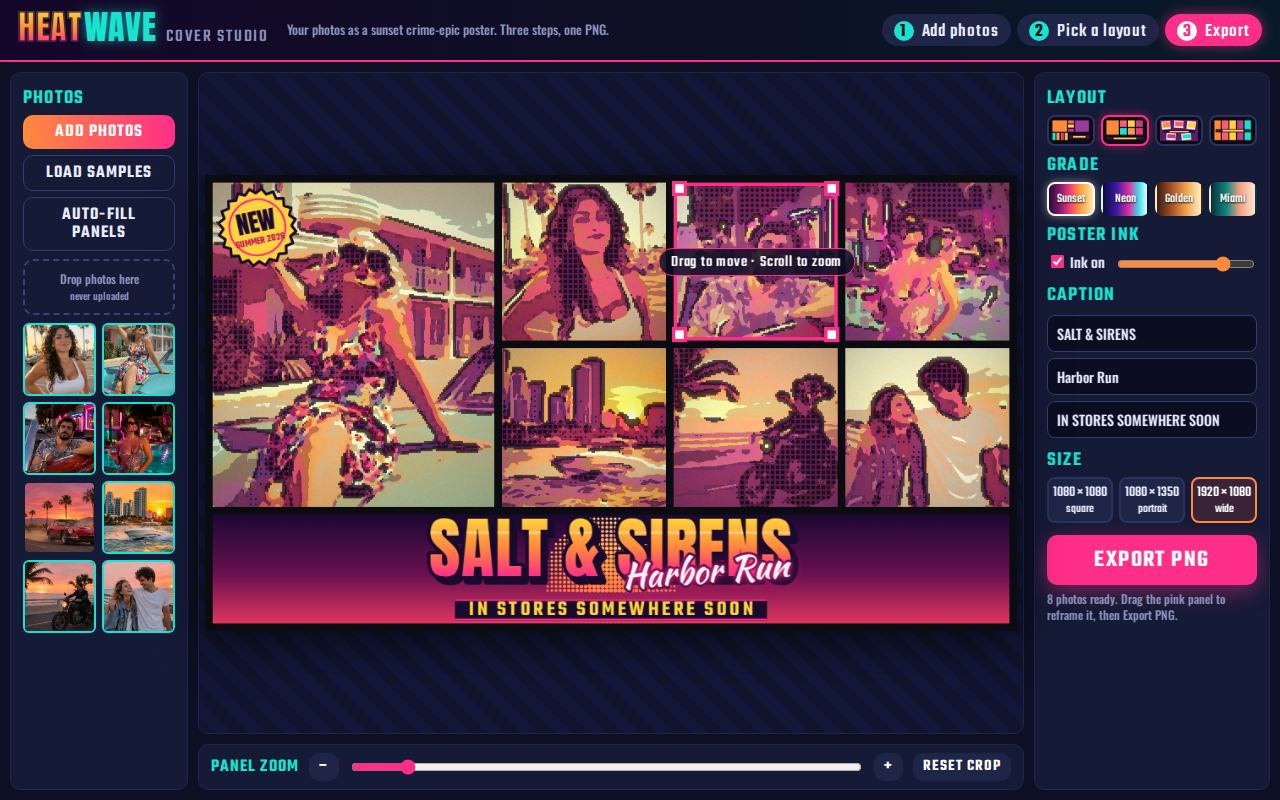
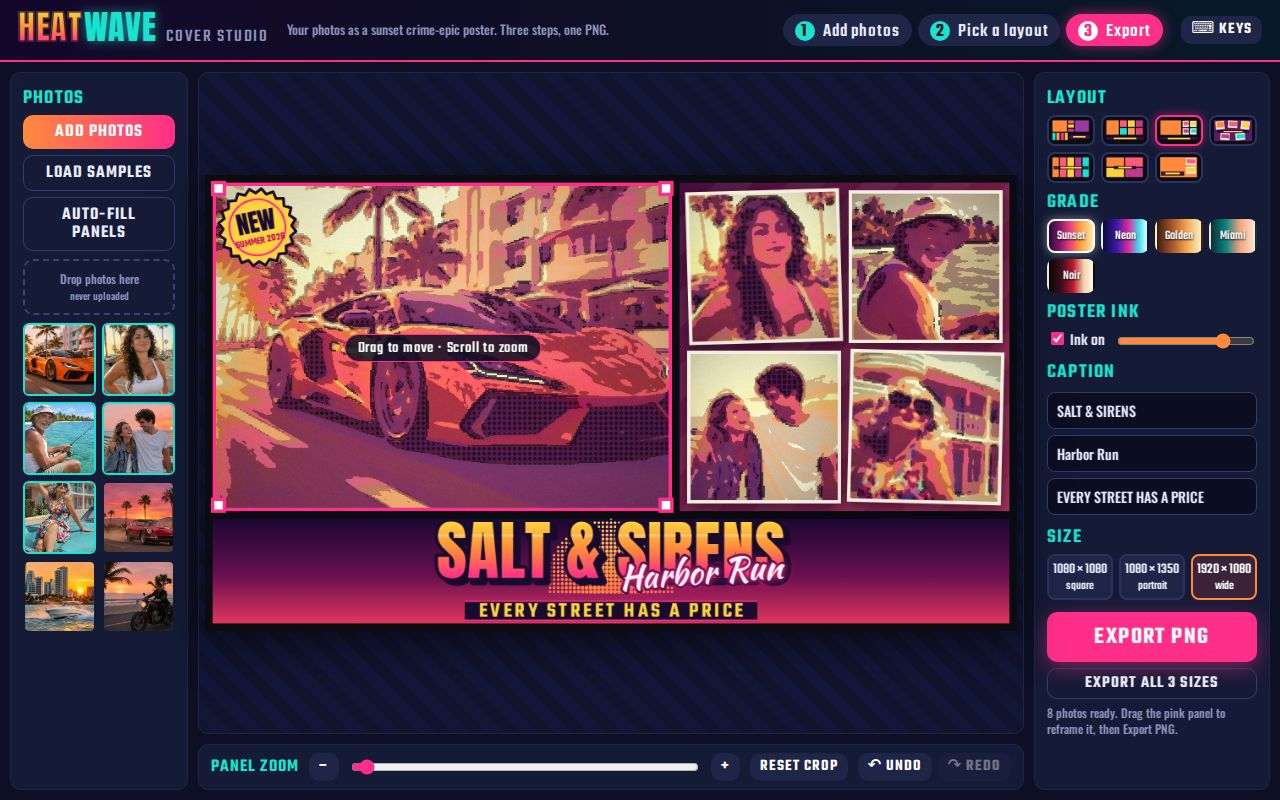
Step 5 (M2): re-took shots 2-4 (editor with Hero + Four + Poster Ink and live Undo; 1080x1350 snapshots in Neon Night; 1080x1080 Grid Four from one photo in Miami Teal); no photo on more than two shots

diff --git a/app/src/dev/shot-scenes.js b/app/src/dev/shot-scenes.js
@@ -29,25 +29,25 @@ const SCENES = {
       { photo: 2, zoom: 1, fx: 0.5, fy: 0.4 }, { photo: 3, zoom: 1.1, fx: 0.5, fy: 0.35 }, { photo: 4, zoom: 1, fx: 0.5, fy: 0.3 },
     ],
   },
-  // Shot 4: 1080 x 1080 from ONE photo, five smart crops in Strip Five, Golden Hour.
+  // Shot 4: 1080 x 1080 from ONE photo, four crops in Grid Four (face, ferris wheel, arcade, shirt), Miami Teal.
   'cover-one': {
-    layoutId: 'stripFive', gradeId: 'goldenHour', size: [1080, 1080],
-    caption: { title: 'GOLDEN HOUR', subtitle: 'One Photo, Five Shots', tagline: 'FIVE CROPS · ONE SNAPSHOT' },
-    photos: ['woman-palms'],
+    layoutId: 'gridFour', gradeId: 'miamiTeal', size: [1080, 1080],
+    caption: { title: 'BOARDWALK', subtitle: 'One Photo, Four Shots', tagline: 'FOUR CROPS · ONE SNAPSHOT' },
+    photos: ['flamingo-boardwalk'],
     panels: [
-      { photo: 0, zoom: 1, fx: 0.1, fy: 0.5 }, { photo: 0, zoom: 1.3, fx: 0.36, fy: 0.32 }, { photo: 0, zoom: 1.0, fx: 0.47, fy: 0.3 },
-      { photo: 0, zoom: 2.2, fx: 0.5, fy: 0.32 }, { photo: 0, zoom: 1, fx: 0.9, fy: 0.5 },
+      { photo: 0, zoom: 1.6, fx: 0.56, fy: 0.24 }, { photo: 0, zoom: 1.7, fx: 0.86, fy: 0.32 },
+      { photo: 0, zoom: 1.5, fx: 0.12, fy: 0.5 }, { photo: 0, zoom: 2.3, fx: 0.47, fy: 0.62 },
     ],
   },
   // Shot 2: the editor with photos in the tray, Hero + Four (supercar hero, four framed photos), Poster Ink on,
   // one framed panel selected, step 3 lit.
   editor: {
-    layoutId: 'heroFour', gradeId: 'sunsetStrip', size: [1920, 1080], selected: 2, editor: true,
+    layoutId: 'heroFour', gradeId: 'sunsetStrip', size: [1920, 1080], selected: 0, editor: true,
     caption: { title: 'SALT & SIRENS', subtitle: 'Harbor Run', tagline: 'EVERY STREET HAS A PRICE' },
     photos: ['supercar-boulevard', 'woman-palms', 'pier-fisher', 'couple-pier', 'lady-motel', 'coupe-desert', 'speedboat', 'moto-causeway'],
     panels: [
-      { photo: 0, zoom: 1.05, fx: 0.48, fy: 0.5 }, { photo: 1, zoom: 1.1, fx: 0.5, fy: 0.3 }, { photo: 2, zoom: 1.1, fx: 0.42, fy: 0.4 },
-      { photo: 3, zoom: 1, fx: 0.5, fy: 0.38 }, { photo: 4, zoom: 1.1, fx: 0.5, fy: 0.3 },
+      { photo: 0, zoom: 1.05, fx: 0.5, fy: 0.55 }, { photo: 1, zoom: 1.15, fx: 0.5, fy: 0.3 }, { photo: 2, zoom: 1.35, fx: 0.33, fy: 0.36 },
+      { photo: 3, zoom: 1.1, fx: 0.5, fy: 0.35 }, { photo: 4, zoom: 1.7, fx: 0.6, fy: 0.24 },
     ],
   },
 };
